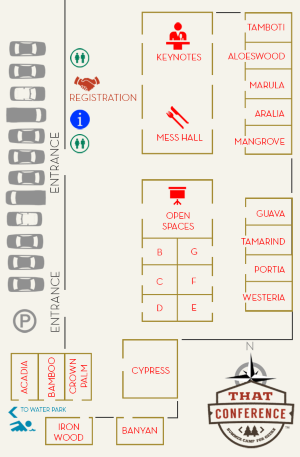
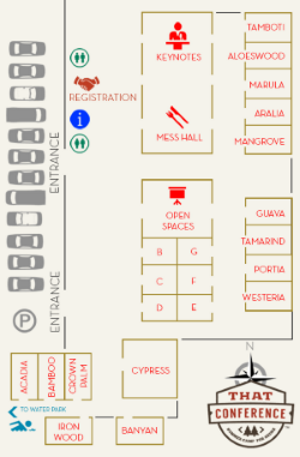
Resized image container

diff --git a/thatconfapp/www/src/MapView.js b/thatconfapp/www/src/MapView.js
@@ -6,7 +6,7 @@ var MapView = function() {
 
     this.render = function() {
 
-	var markup = '<div id="image" style="height:100%; overflow: auto" ></div>';
+	var markup = '<div id="image" style="height:90%; overflow: auto" ></div>';
        this.el.innerHTML = markup;
        return this.el;
     };

diff --git a/thatconfapp/www/index.html b/thatconfapp/www/index.html
@@ -91,6 +91,7 @@
 
 		#image { 
 			background-image: url(./images/thatmap.png); 
+			background-repeat: no-repeat;
 	}
 	@media only screen and (max-width: 320px) {
 			#image { 
